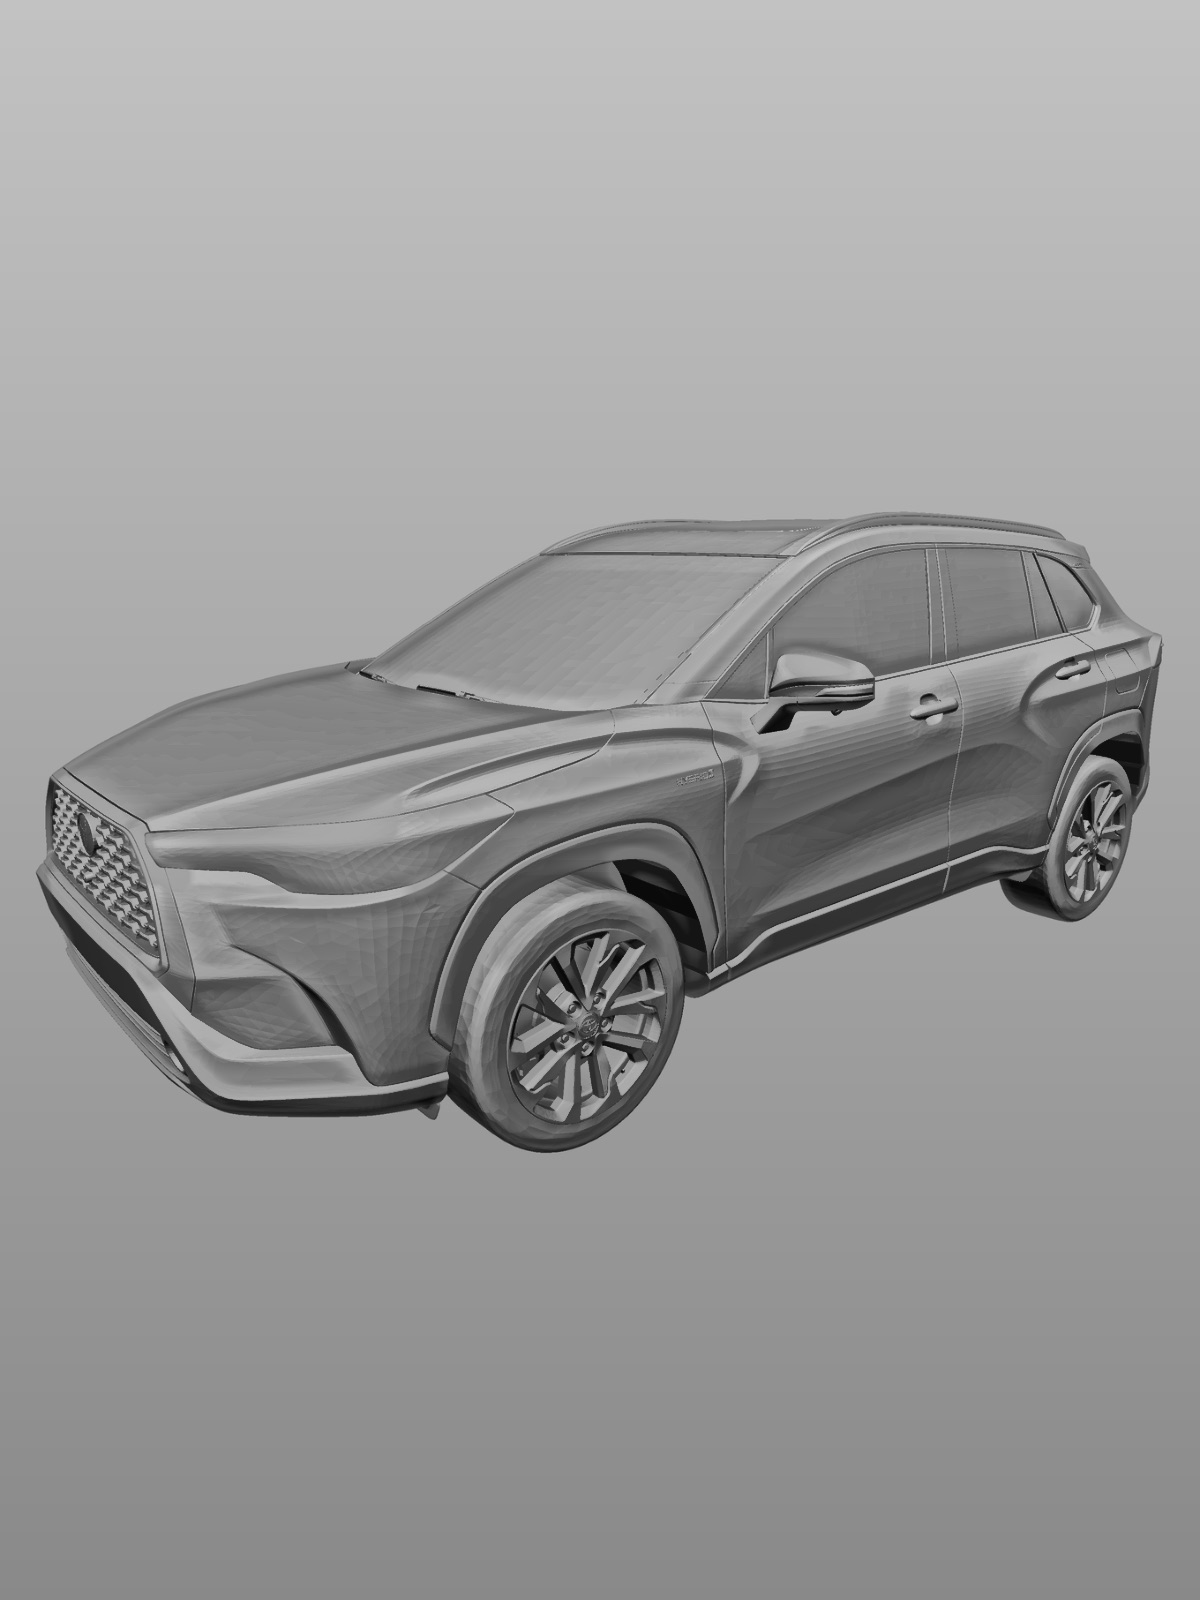
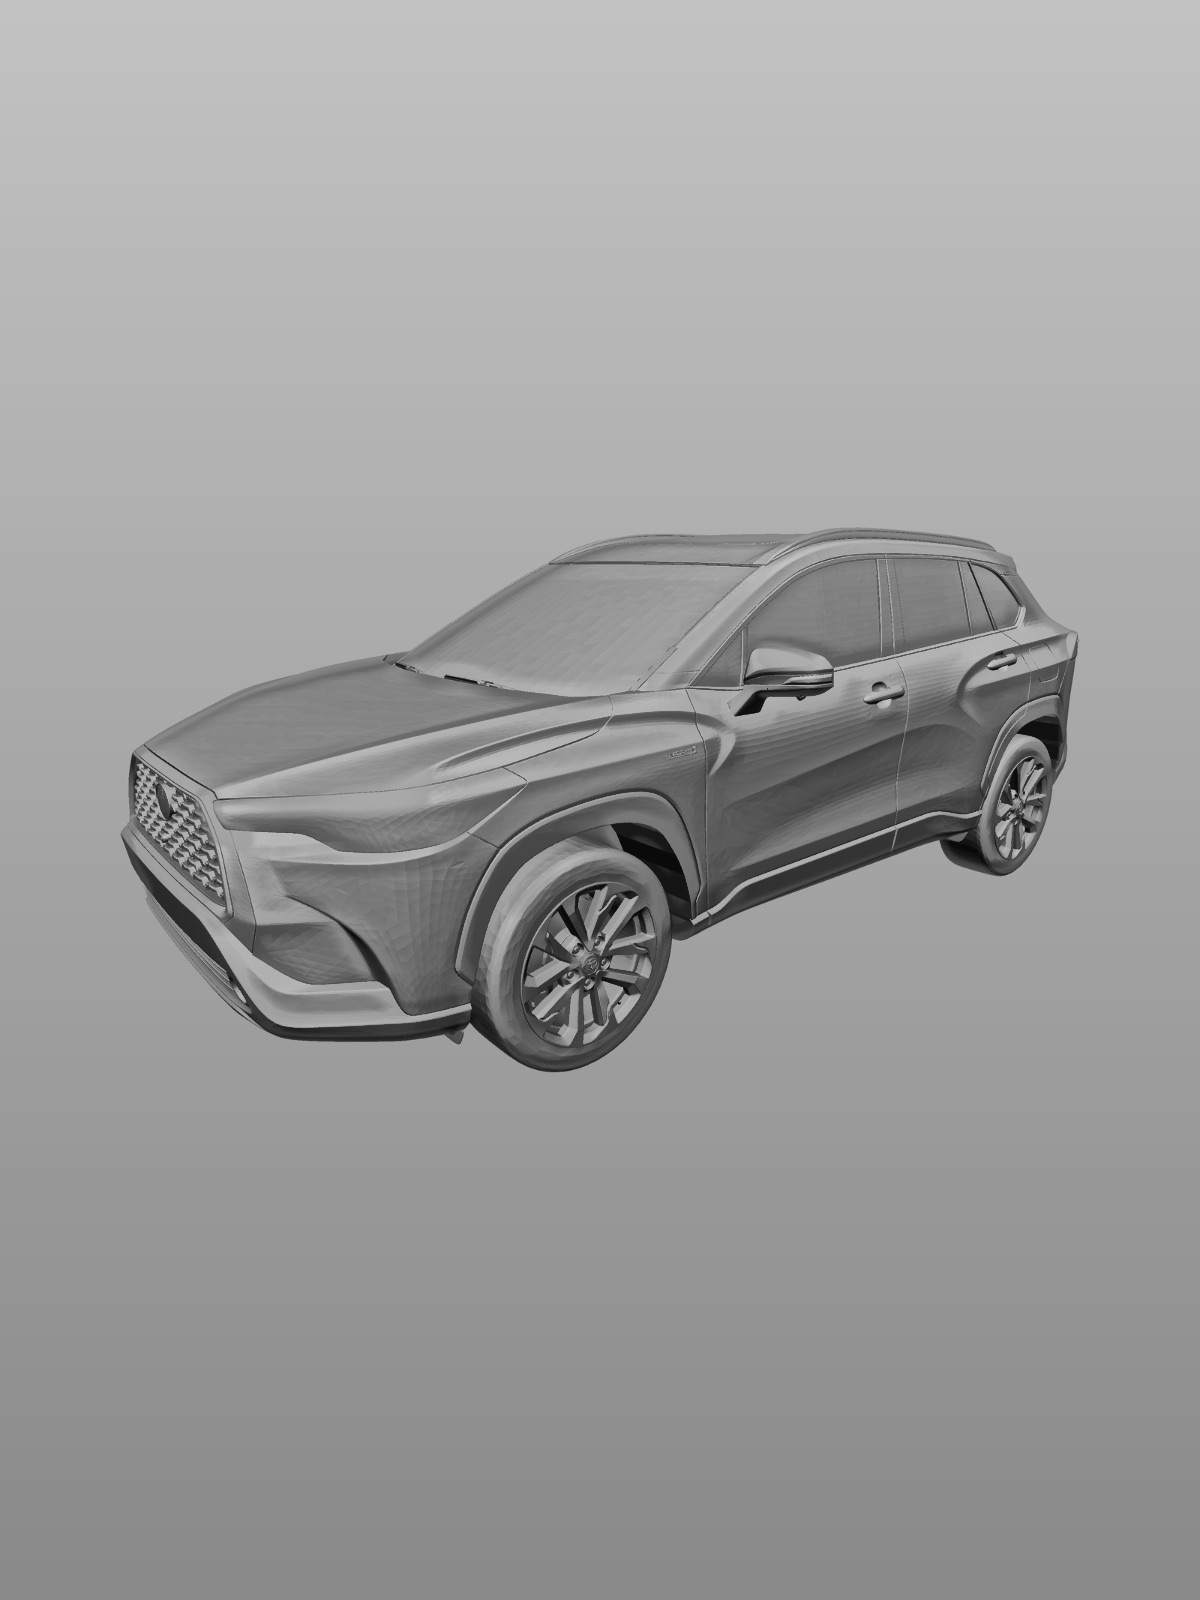
fix(assets): reframe the mock-camera plates onto the outlines' 26 mm basis
The four corner plates were built by cropping the render to x120..1479 (85% of
frame width) before fitting it into the 3:4 canvas. capture.js covers that
plate into a landscape 1440x1080 canvas, so the visible slice was 85% in both
axes: an effective 30.6 mm against the 26 mm the guide outlines are projected
from. The car therefore rendered 17.6% larger than its outline and quality.js's
coverage check never passed - all four corners permanently advised "step back
about 5 paces" on the desktop mock camera. Real cameras were never affected.

Rebuild all four from render-*-glb-ccby.png with the whole 1600x1200 frame
kept: bilinear to 1200x900, pasted at y=350 (vertically centred) in the
1200x1600 canvas, padding filled with the render's own flat 238 backdrop. The
landscape cover slice y 350..1250 is then exactly the full render frame, so the
mock camera and the outlines share one camera basis again. Nothing is lost: the
discarded 15% was pure backdrop, the car bbox sits at x158..1441.

Exposure (v * 0.80 * grad(y)) and the eroded-mask local contrast (r=16) are
unchanged - both are load-bearing. Rebuilding without the clarity pass scores
gradient 8.0-8.9 / sharpness 0.048-0.090 in landscape, which reads as blurry
for car-rf and car-rr, and drops coverage to 0.631-0.689. car-default is not
outline-aligned and keeps its old recipe; its bytes are unchanged.

Measured with quality.js's analyzeLuma over the drawAssetFrame path
[…]

Changed region(s): [[0.0308, 0.3125, 0.9867, 0.7188]]

diff --git a/demo/assets/README.md b/demo/assets/README.md
@@ -33,7 +33,7 @@ CC BY **無 copyleft 感染性**，允許改作與商用，唯一義務是標示
 畫面來源（**不需要改任何程式碼**）。原始渲圖有三個問題不能直接用：
 
 1. **格式／檔名**不符 `assets/car-<cornerId>.jpg` 的約定；
-2. **比例**是 4:3 橫向，而 mock canvas 是 1080×1440（3:4 直向）＋ `cover`，
+2. **比例**是 4:3 橫向，而直向 mock canvas 是 1080×1440（3:4）＋ `cover`，
    直接放會被裁掉車頭車尾；
 3. **會一直跳「畫面過曝」** —— 渲圖背景是平坦的 238，佔畫面約 68%，
    遠超過 `src/quality.js` 的 `maxBrightRatio = 0.25`（`brightLum = 220`）；
@@ -44,12 +44,17 @@ CC BY **無 copyleft 感染性**，允許改作與商用，唯一義務是標示
 
 從 `render-<角>-glb-ccby.png`（1600×1200、8-bit 灰階、背景平坦 238）：
 
-1. **裁切**：水平裁到 x `120..1479`（車身 bbox `160..1439` 左右各留 40 px）。
-   `car-default.jpg` 不裁（x `0..1599`），車在畫面裡比較小，當通用底圖。
-2. **放進 1200×1600（3:4）直向畫布**：雙線性縮到寬 1200（scale = 1200/1360 ≈ 0.8824；
-   default 為 0.75），垂直置於 `top = 303`（default `382`），
-   上下留白用渲圖原本的 238 背景填滿 —— 因為背景是平坦色，接縫看不出來。
-   3:4 正好等於 mock canvas 的比例，`cover` 時剛好填滿、**不裁切**。
+1. **不裁切**：整張 1600×1200 渲圖畫面都要留著。
+   取景基準就是這一格 —— 輪廓（`src/guides-cuv.js`）是照同一組相機、同一個 4:3
+   畫框算出來的，少一塊就等於偷偷換了焦距（詳見下方「取景基準」）。
+2. **放進 1200×1600（3:4）直向畫布**：雙線性縮到寬 1200（scale = 1200/1600 = 0.75），
+   得到 1200×900 的影像塊，垂直**置中**貼在 `top = 350`（= (1600−900)/2），
+   上下各 350 px 留白用渲圖原本的 238 背景填滿 —— 因為背景是平坦色，接縫看不出來
+   （渲圖四邊本來就是純 238，等於邊界 clamp 取樣）。
+   3:4 正好等於直向 mock canvas 的比例，`cover` 時剛好填滿、**不裁切**；
+   橫向 1440×1080 畫布 `cover` 之後看得到的則正好是 `y 350..1250` 這一段，
+   也就是**整張渲圖畫面**（見「取景基準」）。
+   `car-default.jpg` 是通用底圖、不對輪廓，沿用舊的置中規則（`top = 382`），檔案未變動。
 3. **曝光**：`out = v × 0.80 × grad(y)`，`grad` 由頂端 1.02 線性降到底端 0.72。
    純乘法所以不會產生去背光暈，陰影與邊緣的相對關係都保留；
    由上而下的衰減讓平坦背景讀起來像「上方亮、地面暗」的環境光，而不是棚拍背景布。
@@ -63,10 +68,43 @@ CC BY **無 copyleft 感染性**，允許改作與商用，唯一義務是標示
 
    這一步是**必要的**，不是美化：純渲圖的梯度能量太低，會被 `quality.js`
    的清晰度檢查判成模糊（見下表）。實務上等同於相機 ISP 的銳化，不是造假。
-5. **輸出**：`sips -s format jpeg -s formatOptions 82`（灰階 JPEG，各約 120–155 KB）。
+5. **輸出**：`sips -s format jpeg -s formatOptions 82`（灰階 JPEG，各約 120–130 KB）。
 
 > 想調整取景／曝光時，回到 `car-reference/render-*-glb-ccby.png` 重跑上面五步，
 > 不要在 jpg 上疊第二次處理。
+
+### 取景基準：橫向 cover 之後看到的必須「正好是整張渲圖」
+
+四角拍照（`#/capture`）走的是橫向 1440×1080 畫布，`cover` 的縮放是
+`max(1440/1200, 1080/1600) = 1.2` —— 橫向填滿、垂直裁掉上下各 420 canvas px，
+換算回素材座標就是**只看得到 `y 350..1250`（高 900）、寬度全開**。
+素材裡那一塊 1200×900 就是縮小 0.75 倍的完整渲圖畫面，所以：
+
+**模擬相機的等效焦距 = 渲圖的等效焦距 = 26 mm = `guides-cuv.js` 輪廓的相機基準。**
+
+這條等式是硬性的，不是美感問題。素材曾經是「渲圖裁 `x120..1479`（85% 寬）」做的，
+cover 之後等效焦距變成 30.6 mm（×1.176），車體因此比輪廓大 17.6%，
+`quality.js` 的輪廓占比永遠不及格 —— 四角**全部**誤報「往後退約 5 步」
+（`analyzeLuma` 實測 `coverage` 0.554–0.593，門檻 0.62／對齊 0.66）。
+被裁掉的 15% 邊界原本就是純背景（車體 bbox 落在 `x158..1441`），
+所以改成不裁**沒有任何車體細節損失**，只是把取景基準接回去。
+
+**輪廓占比實測**（橫向 1440×1080＋`guides-cuv.js` 的 outline 多邊形，48 點取樣）：
+
+| 檔案 | `coverage`（≥0.66 轉綠） | `spreadRatio`（≥0.72） | `aligned` | 舊素材 `coverage` |
+|---|---|---|---|---|
+| `car-lf.jpg` | 0.747 | 1.085 | ✅ true | 0.554 ❌ |
+| `car-rf.jpg` | 0.769 | 1.142 | ✅ true | 0.593 ❌ |
+| `car-lr.jpg` | 0.734 | 1.138 | ✅ true | 0.554 ❌ |
+| `car-rr.jpg` | 0.741 | 1.169 | ✅ true | 0.563 ❌ |
+
+誤報 **0/4**（舊素材 4/4）。另外量到的幾何佐證：finished JPEG 裡的車體 bbox
+換算回可見畫框後，與輪廓 bbox 的最大差距只有 **0.2–0.3% 畫面寬**。
+
+> `drawAssetFrame()` 還會畫左下角的模擬素材小標籤片，上表沒有把它算進去
+> （與下面的品質表一致，都是純素材路徑）。把標籤片一起模擬時 `coverage`
+> 降到 0.674–0.703、`gradient` 反而升到 12.9–13.8，**四角仍全部 `aligned = true`**，
+> 判定不變。
 
 ### 品質檢查實測（`src/quality.js` 的演算法，走瀏覽器同一條路徑）
 
@@ -79,22 +117,27 @@ CC BY **無 copyleft 感染性**，允許改作與商用，唯一義務是標示
 
 直向路徑：`<img 1200×1600>` → cover 進 1080×1440（scale 0.9，剛好填滿無裁切）→
 `analyzeFrame()` 取樣 160×213。
-橫向路徑：同一張 `<img 1200×1600>` → cover 進 1440×1080（上下各裁掉天空／地面，全車仍在畫面內）→
-取樣 160×120。
+橫向路徑：同一張 `<img 1200×1600>` → cover 進 1440×1080（上下各裁掉留白，
+可見範圍正好是整張渲圖畫面）→ 取樣 160×120。
 
-> ⚠ 下表**直向**欄位的取樣路徑含「底部 150 px `rgba(0,0,0,0.45)` 標籤條」，
-> 但現行 `drawAssetFrame()` 畫的是**左下角小標籤片**（`24*S` 起、`56*S` 高、`rgba(0,0,0,0.55)`），
-> 不是整條橫幅。重驗時兩個方向請一起重跑，不要只補一半。
+> ⚠ 下面兩張表都是**純素材路徑**（不含 `drawAssetFrame()` 左下角的模擬素材標籤片，
+> `24*S` 起、`56*S` 高、`rgba(0,0,0,0.55)`）。標籤片會讓 `avg` 掉 ~0.5、
+> `gradient` 升 ~0.5–1.5（黑片與白字自己就是邊緣），五張的判定都不變。
+> 重驗時兩個方向請一起重跑，不要只補一半。
 
-**亮度／過曝**（`minAvg 55`／`maxDarkRatio 0.45`／`maxBrightRatio 0.25`）：
+**亮度／過曝**（`minAvg 55`／`maxDarkRatio 0.45`／`maxBrightRatio 0.25`，橫向取樣）：
 
 | 檔案 | 尺寸 | 大小 | avg 亮度 | 過暗比例 | 過曝比例 | 判定 |
 |---|---|---|---|---|---|---|
-| `car-lf.jpg` | 1200×1600 | 145 KB | 147.6 | 0.4 % | 0.0 % | ✅ |
-| `car-rf.jpg` | 1200×1600 | 145 KB | 140.5 | 2.7 % | 0.0 % | ✅ |
-| `car-lr.jpg` | 1200×1600 | 150 KB | 141.8 | 1.3 % | 0.0 % | ✅ |
-| `car-rr.jpg` | 1200×1600 | 150 KB | 137.1 | 2.4 % | 0.0 % | ✅ |
-| `car-default.jpg` | 1200×1600 | 121 KB | 150.8 | 0.3 % | 0.0 % | ✅ |
+| `car-lf.jpg` | 1200×1600 | 121 KB | 150.8 | 0.5 % | 0.0 % | ✅ |
+| `car-rf.jpg` | 1200×1600 | 121 KB | 141.6 | 3.6 % | 0.0 % | ✅ |
+| `car-lr.jpg` | 1200×1600 | 125 KB | 143.2 | 1.7 % | 0.0 % | ✅ |
+| `car-rr.jpg` | 1200×1600 | 126 KB | 137.2 | 3.0 % | 0.0 % | ✅ |
+| `car-default.jpg` | 1200×1600 | 121 KB | 149.9 | 0.5 % | 0.0 % | ✅ |
+
+> **過曝比例 0.0% 不是巧合，是曝光步驟保證的**：背景 238 經過 `× 0.80 × grad(y)`
+> 之後最高只有 `255 × 0.816 ≈ 208`，低於 `brightLum = 220`。所以「可見範圍變大、
+> 納進更多平坦背景」不會把 `brightRatio` 推過 0.25 —— 取景改動不會踩到這個門檻。
 
 **清晰度**：兩代演算法、兩個畫布方向都驗過，五張都 `ok = true`。
 
@@ -102,36 +145,45 @@ CC BY **無 copyleft 感染性**，允許改作與商用，唯一義務是標示
 
 | 檔案 | `variance`（舊版 ≥120） | `gradient` | `sharpness`（新版 ≥0.05） |
 |---|---|---|---|
-| `car-lf.jpg` | 1497 | 10.61 | 0.0753 |
-| `car-rf.jpg` | 2134 | 10.99 | 0.0566 |
-| `car-lr.jpg` | 1880 | 10.94 | 0.0636 |
-| `car-rr.jpg` | 2236 | 11.32 | 0.0573 |
-| `car-default.jpg` | 1378 | 9.44 | 0.0646 |
+| `car-lf.jpg` | 771 | 8.88 | 0.1022 |
+| `car-rf.jpg` | 1341 | 9.35 | 0.0652 |
+| `car-lr.jpg` | 1137 | 9.29 | 0.0759 |
+| `car-rr.jpg` | 1471 | 9.59 | 0.0625 |
+| `car-default.jpg` | 784 | 8.87 | 0.1003 |
 
 *橫向 1440×1080 —— 四角拍照走的就是這一條*
 
 | 檔案 | `avg` | `contrast` | `gradient` | `sharpness` |
 |---|---|---|---|---|
-| `car-lf.jpg` | 145.22 | 33.21 | 13.648 | 0.1689 |
-| `car-rf.jpg` | 132.60 | 45.85 | 14.090 | 0.0944 |
-| `car-lr.jpg` | 134.84 | 41.08 | 14.085 | 0.1175 |
-| `car-rr.jpg` | 126.49 | 46.64 | 14.666 | 0.0989 |
-| `car-default.jpg` | 150.87 | 29.99 | 11.824 | 0.1554 |
+| `car-lf.jpg` | 150.77 | 29.61 | 11.899 | 0.1615 |
+| `car-rf.jpg` | 141.59 | 41.62 | 12.451 | 0.0895 |
+| `car-lr.jpg` | 143.24 | 37.45 | 12.436 | 0.1103 |
+| `car-rr.jpg` | 137.23 | 43.21 | 12.901 | 0.0892 |
+| `car-default.jpg` | 149.87 | 31.21 | 12.312 | 0.1556 |
 
 > **這幾個數字是有意調出來的，改圖時請一併重驗 —— 兩個方向都要。**
 > 梯度版的清晰度檢查有兩道關：`gradient ≥ maxGradientForBlur (9)` 時整段不判模糊
 > （`blurJudgeable` 為 false），或 `sharpness ≥ minSharpness (0.05)` 時判為清晰。
 >
-> **橫向下五張的 `gradient` 全部落在 11.8–14.7，`gradient ≥ 9` 這道保險絲一律觸發，
-> 模糊檢查根本不會執行。** `sharpness`（0.094–0.169）雖然也全部過關，但在橫向下
-> **不是**判定依據，只是餘裕證明。直向下 `gradient` 只有 9.44–11.32，
-> 其中 `car-default.jpg` 的 9.44 離門檻 9 只剩 5% —— 直向才是比較緊的那一邊。
+> **橫向下五張的 `gradient` 全部落在 11.9–12.9，`gradient ≥ 9` 這道保險絲一律觸發，
+> 模糊檢查根本不會執行。** `sharpness`（0.089–0.162）雖然也全部過關，但在橫向下
+> **不是**判定依據，只是餘裕證明。直向下 `gradient` 只有 8.87–9.59，
+> `car-lf` 與 `car-default` 已經低於 9 → 模糊檢查真的會執行，
+> 但 `sharpness` 0.100 / 0.100 是門檻 0.05 的兩倍，判定仍是清晰。
+> **直向才是比較緊的那一邊**（而且直向是補拍／使用中回報，不是四角拍照）。
 >
-> 方向換成橫向後所有指標都變好（`gradient` 9.44–11.32 → 11.82–14.67），
-> 因為 cover 進橫向畫布時上下的平坦天空／地面被裁掉，車體占比提高、高頻內容比例上升。
+> 取景改成「整張渲圖」之後 `gradient` 比舊素材低（橫向 13.6–14.7 → 11.9–12.9、
+> 直向 10.1–10.8 → 8.9–9.6），這是**正確取景的必然結果**：車體在畫面裡變小
+> 17.6%，每個取樣格裡的邊緣就變少。**不要**為了把數字補回去加銳化 ——
+> 那就變成為了過門檻而修素材（`quality.js` §G6：疊圖與品質提示是引導，不是閘門）。
 >
-> 沒有步驟 4 的 clarity 時，直向實測 `gradient` 只有 6.8–8.0、`sharpness` 0.030–0.040
-> —— 兩道都不過，模擬相機會固定顯示「畫面可能模糊，請對焦後再拍」。
+> 沒有步驟 4 的 clarity 時（同一批素材、只把 unsharp 強度設 0 重跑）：
+> 直向 `gradient` 6.03–6.64、`sharpness` 0.033–0.053，
+> 橫向 `gradient` 8.01–8.95、`sharpness` 0.048–0.090 ——
+> **`car-rf` 與 `car-rr` 連橫向都會被判「畫面可能模糊，請對焦後再拍」**
+> （`gradient < 9` 保險絲不觸發、`sharpness < 0.05`），直向更是四張裡三張不過。
+> 順帶一提，沒有 clarity 時橫向 `coverage` 也掉到 0.631–0.689（兩張低於 0.66）——
+> 車體內部的板件線正是輪廓占比的主要訊號來源。
 > 原因不是圖糊，是純渲圖缺少真實照片的高頻內容（雜訊、路面與烤漆紋理）。
 
 （`car-rf` / `car-rr` 的車身偏暗是**渲圖本身的打光**，不是加工造成的。）
@@ -143,15 +195,13 @@ CC BY **無 copyleft 感染性**，允許改作與商用，唯一義務是標示
 
 | 素材方向 | 直向 1080×1440 畫布 | 橫向 1440×1080 畫布（四角拍照，PIG-13 §1.2 G1） |
 |---|---|---|
-| **3:4 直向（採用）** | 剛好填滿，零裁切 | 上下各裁掉天空／地面，**全車仍在畫面內**（可見 plate y 350–1250，車體 499–1165） |
-| 4:3 橫向（原始渲圖） | 只剩中間 56 % 寬 → **車頭與車尾被裁掉** | 剛好填滿 |
+| **3:4 直向（採用）** | 剛好填滿，零裁切（上下多看到 350 px 留白） | 只看得到 plate `y 350–1250`＝**整張渲圖畫面**，全車在框內且與輪廓同基準 |
+| 4:3 橫向（直接用渲圖） | 只剩中間 56 % 寬 → **車頭與車尾被裁掉** | 剛好填滿（與 3:4 版看到的內容相同） |
 
-直向會 graceful degrade，橫向不會，所以選直向。橫向畫布下實測仍全部通過品質檢查
-（車身占比更高，指標反而更好 —— 逐檔數字見上方「橫向 1440×1080」表）。
-
-> 如果之後四角拍照畫面固定成橫向 4:3、而且要讓素材與 `generated/guide-cuv-*.svg`
-> 的輪廓逐像素對齊（兩者本來就同一組相機參數），那就改成直接輸出 1600×1200
-> 不裁不墊 —— 但要接受直向畫布（補拍／使用中回報）會裁掉車頭車尾。
+直向會 graceful degrade，橫向不會，所以選直向。
+上下的 350 px 留白**只有直向畫布看得到**，是拿「補拍／使用中回報畫面多一點天地」
+換「四角拍照的取景與輪廓同基準」—— 後者是硬需求，前者只是留白多寡。
+兩個方向實測都通過品質檢查（逐檔數字見上表）。
 
 ### 順帶修掉的 404
 
